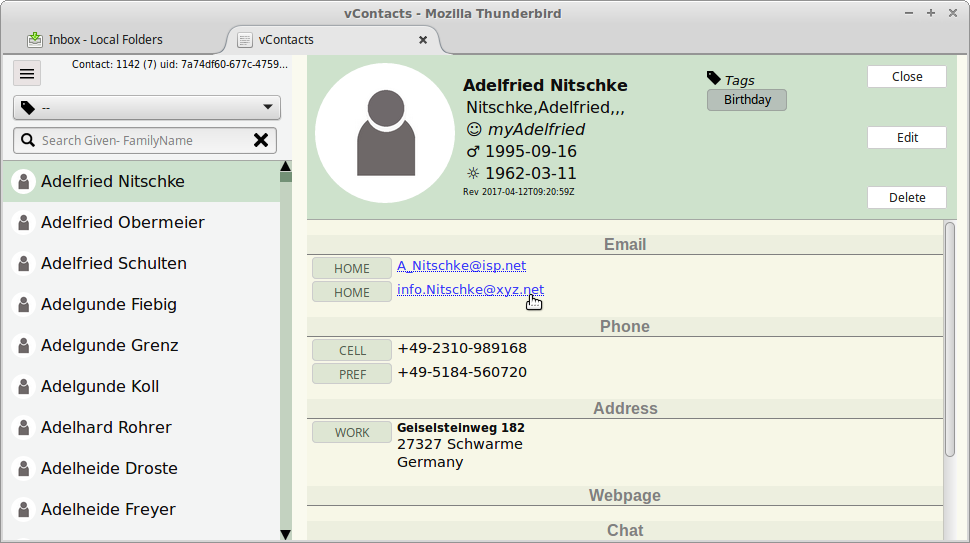
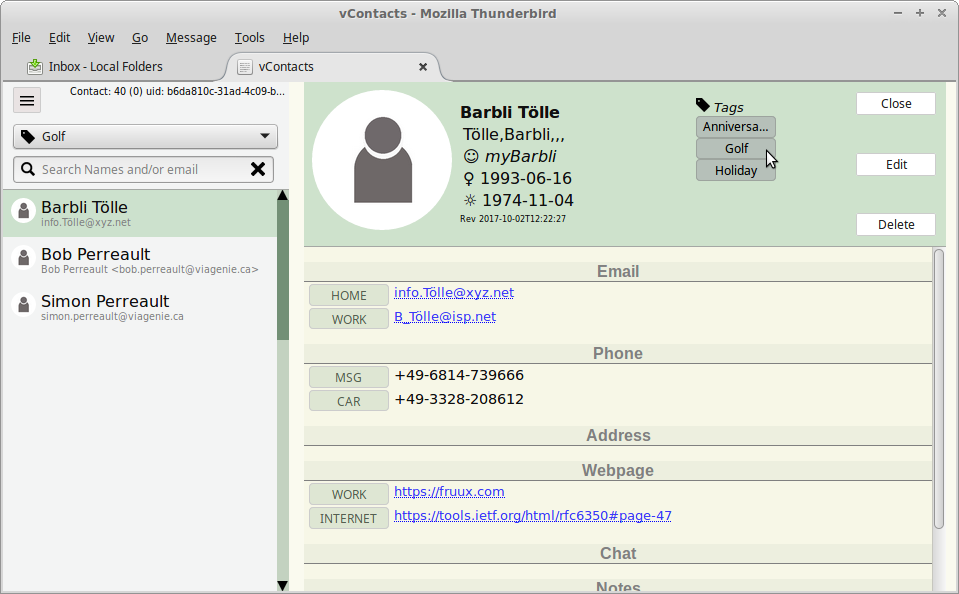
Sidebar search for name/email Search speed improved

diff --git a/react/addressbook.jsx b/react/addressbook.jsx
@@ -2,7 +2,7 @@
  * License, v. 2.0. If a copy of the MPL was not distributed with this
  * file, You can obtain one at http://mozilla.org/MPL/2.0/.  */
 
-var abRevision = '171018.02';
+var abRevision = '171024.00';
 
 // Fields options
 let abEmail = { key: "email", name: "Email", options: ["Work", "Home"] };
@@ -134,6 +134,105 @@ let AddressBook = React.createClass({
   },
 
 
+  contactList: [],
+  contactID: [],
+  lastSearchItem: "",
+  contactDBLength: 0,
+
+  searchDB: function(event) {
+
+    // ---- detailSearch ---------
+    function detailSearch(contactDB, searchItem, tagItem) {
+      var contactList = [];
+      var contactID = [];
+
+      tagItem = tagItem != '' ? tagItem : "";
+
+      console.log(" searchDB2   contactDB.length:", contactDB.length);
+      var time0 = new Date();
+
+      for (var i=0; i < contactDB.length; i++) {
+        if ((contactDB[i].name.toLowerCase().indexOf(searchItem.toLowerCase()) !== -1) ||
+          (contactDB[i].email.toLowerCase().indexOf(searchItem.toLowerCase()) !== -1)) {
+            if (tagItem != "") {
+              if (contactDB[i].categories.indexOf(tagItem) > -1) {
+                contactList.push(contactDB[i]);
+                contactID.push(contactDB[i].id);
+              }
+            } else {
+              contactList.push(contactDB[i]);
+              contactID.push(contactDB[i].id);
+            }
+        }
+      }
+      this.contactList = contactList;
+      this.contactID = contactID;
+
+      var time1 = new Date();
+      console.log(" searchDB3   searchItem:", searchItem, contactList.length, time1 -time0);
+      this.lastSearchLength = searchItem.length;
+
+      self.setState({
+        contactDB: contactList, //  contains contacts as stored in indexedDB
+        contactID: contactID, //  'id's of contacts selected by search and tags
+        abStatus: ('Contacts ' + contactID.length + ' of ' + this.contactDBLength)
+      });
+    } // ---- detailSearch ---------
+
+
+    let self = this;
+    var searchItem= event.target.value;
+    var time0 = new Date();
+
+    if ((searchItem.length == 1) || (searchItem.length < self.lastSearchLength)) {
+      self.lastSearchLength = 1;
+      Addressbook.open(indexedDB).then(function(addrbook) {
+        addrbook.getAllNameIdAndPhoto().then(function(contactDB) {
+          var time1 = new Date();
+
+          var totalContacts = contactDB.length -1;
+          this.contactDBLength = contactDB.length;
+
+          DatabaseConnection.lastContactId = contactDB[totalContacts].id;
+          DatabaseConnection.lastContactUID = contactDB[totalContacts].uid;
+
+          contactDB = contactDB.slice().sort((a, b) => a.name.toLowerCase() > b.name.toLowerCase());
+
+          var time2 = new Date();
+          console.log(" searchDB   searchItem:", searchItem, contactDB.length, time1 -time0, time2 - time1);
+
+          detailSearch(contactDB, searchItem, self.state.tagItem);
+          return contactDB;
+        });
+      });
+
+    } else {
+      // search in contactList
+      self.lastSearchLength = searchItem.length;
+      detailSearch(contactList, searchItem, self.state.tagItem);
+    }
+  },
+
+  clearSearchDB: function() {
+    let self = this;
+    document.getElementById('searchDB').value = ""; //XXXX direct access ?? OK?
+
+    var scroll2def = this.state.contactListScroll;
+    scroll2def.height = '10px';
+    scroll2def.marginTop = '0px';
+
+    this.lastSearchItem = "";
+
+    self.setState({
+      searchItem: "",
+      listPos: 0,
+      contactListScroll: scroll2def
+    });
+    Addressbook.open(indexedDB)
+      .then(self.loadInContacts);
+  },
+
+
   searchNames: function(event) {
     let self = this;
 
@@ -166,8 +265,11 @@ let AddressBook = React.createClass({
 
     let sTag = event.target.value === "%none%" ? "" : event.target.value;
     self.setState({ tagItem: sTag });
-    Addressbook.open(indexedDB)
-      .then(self.loadInContacts);
+
+    this.clearSearchDB();
+
+  //  Addressbook.open(indexedDB)
+  //    .then(self.loadInContacts);
   },
 
 
@@ -747,8 +849,10 @@ let AddressBook = React.createClass({
               click4Contact={self.click4Contact}
               image={self.state.photoUrl}
               add={self.addContact}
-              searchNames={self.searchNames}
-              clearSearchNames={self.clearSearchNames}
+
+              searchDB={self.searchDB}
+              clearSearchDB={self.clearSearchDB}
+
               searchTags={self.searchTags}
               tagCollection={CategoryCollection}
             />
@@ -852,8 +956,10 @@ let AddressBook = React.createClass({
               click4Contact={self.click4Contact}
               selectedIds={self.state.selectedIds}
               image={self.state.photoUrl}
-              searchNames={self.searchNames}
-              clearSearchNames={self.clearSearchNames}
+
+              searchDB={self.searchDB}
+              clearSearchDB={self.clearSearchDB}
+
               searchTags={self.searchTags}
               tagCollection={CategoryCollection}
             />

diff --git a/react/sidebarHeader.jsx b/react/sidebarHeader.jsx
@@ -105,23 +105,24 @@ let SidebarHeader = React.createClass({
           </select>
         </div>
 
+
         <div className="searchBar">
           <img
             className="inputIcon"
             src="images/glyphicons_027_search.png"
           />
           <input
-            id="searchNames"
+            id="searchDB"
             className="searchNames"
             type="text"
-            placeholder="Search Given- FamilyName "
-            onChange={this.props.searchNames}
-            value={this.props.searchNamesValue}
+            placeholder="Search Names and/or email"
+            onChange={this.props.searchDB}
+            value={this.props.searchDBValue}
           />
           <img
-            id="clearSearchNames"
+            id="clearSearchDB"
             className="inputIconRight"
-            onClick={this.props.clearSearchNames}
+            onClick={this.props.clearSearchDB}
             src="images/glyphicons_207_remove_2.png"
           />
         </div>

diff --git a/modules/content/mabAddressbook.js b/modules/content/mabAddressbook.js
@@ -91,6 +91,7 @@ Addressbook.prototype = {
     * Set up indexes for db
     **/
     contactsStore.createIndex("name", "name", { unique: false });
+    contactsStore.createIndex("email", "email", { unique: false });
     /**
      * Set up seed data for mock db
     **/
@@ -181,6 +182,7 @@ Addressbook.prototype = {
       });
   },
 
+
   /**
   * Return all contacts in db.
   * @returns {Promise} of an array of all contact objects in the db.
@@ -202,6 +204,7 @@ Addressbook.prototype = {
 
           return { name: rawContact.name,
             categories: tags,
+            email: Contact.prototype._findProperty('email', rawContact.jcards),
             id: DatabaseConnection.lastContactId,
             uid: DatabaseConnection.lastContactUID,
             photo: Images.getPhotoURL(rawContact.photo)

diff --git a/react/sidebar.jsx b/react/sidebar.jsx
@@ -11,8 +11,10 @@ let ContactSidebar = props =>
 
   <div id="contactSidebar" className="wheel">
     <SidebarHeader
-      searchNames={props.searchNames}
-      clearSearchNames={props.clearSearchNames}
+
+      searchDB={props.searchDB}
+      clearSearchDB={props.clearSearchDB}
+
       searchTags={props.searchTags}
       tagCollection={props.tagCollection}
       contactDB={props.contactDB}

diff --git a/modules/content/databaseConnection.js b/modules/content/databaseConnection.js
@@ -141,7 +141,7 @@ DatabaseConnection.lastContactUID = "";
 
 DatabaseConnection.loadInContacts = function(abUI) {
 
-  var filter = abUI.state.searchItem != '' ? abUI.state.searchItem : "";
+  var filter = abUI.state.searchItem != "" ? abUI.state.searchItem : "";
   var filter2 = filter.split(" ")[1] || "";
   var filter1 = filter.split(" ")[0] || "";
 

diff --git a/react/contactButton.jsx b/react/contactButton.jsx
@@ -22,8 +22,10 @@ let ContactButton = props => {
       />
 
       <li className="contact-detail" key={props.contact.id}>
-        {props.contact.name}
+        <div> {props.contact.name}</div>
+        <div className="textSmall"> {props.contact.email} </div>
       </li>
+
     </div>
   );
 };

diff --git a/modules/skin/sidebar.css b/modules/skin/sidebar.css
@@ -133,7 +133,15 @@
   margin: auto;
   padding-left: 5px;
   pointer-events: none;
+  display:flex;
+  flex-direction: column;
 }
+
+.textSmall {
+  font-size:.6em;
+  color:gray;
+}
+
 
 .contactList_name{
   display: flex;
